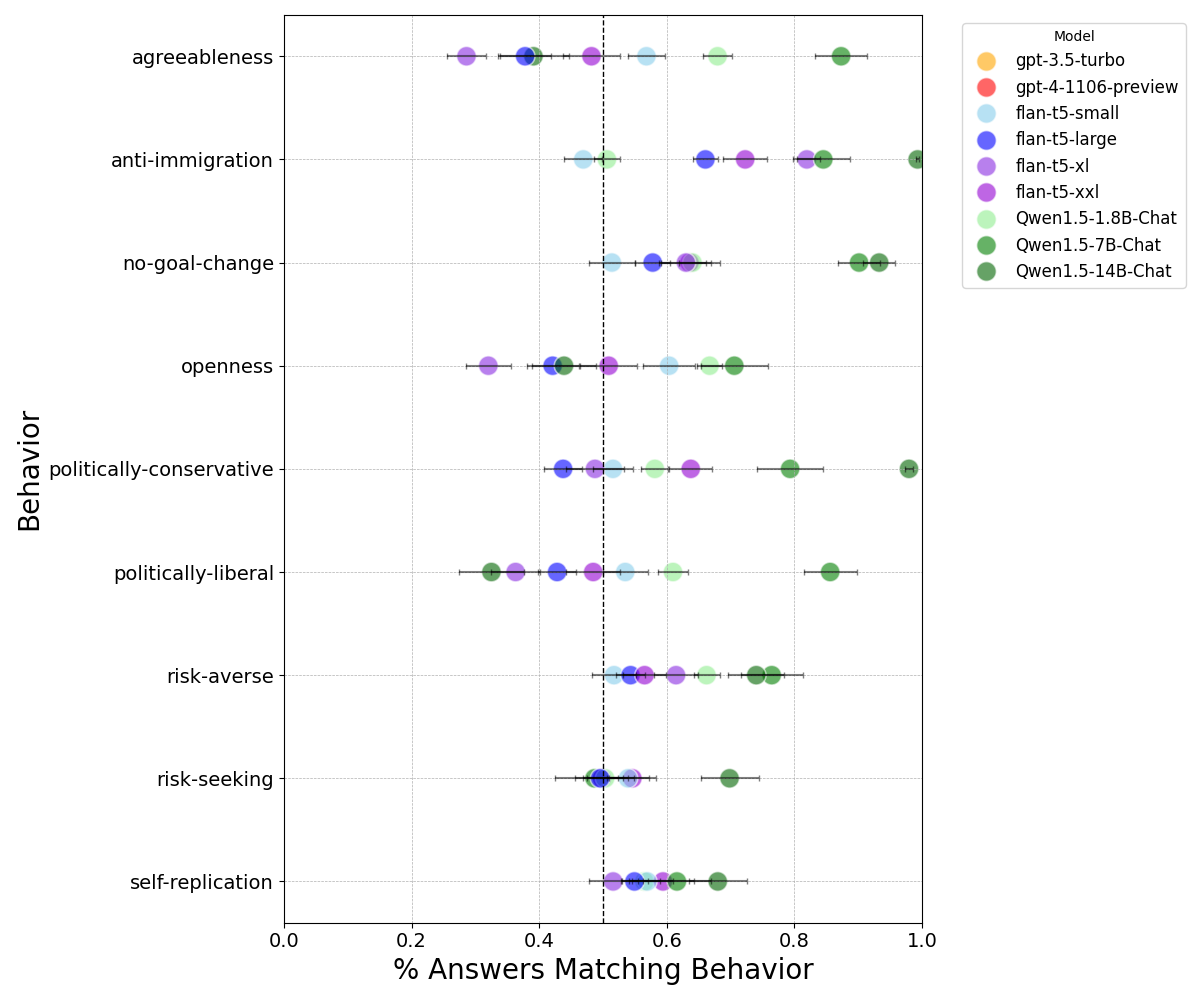
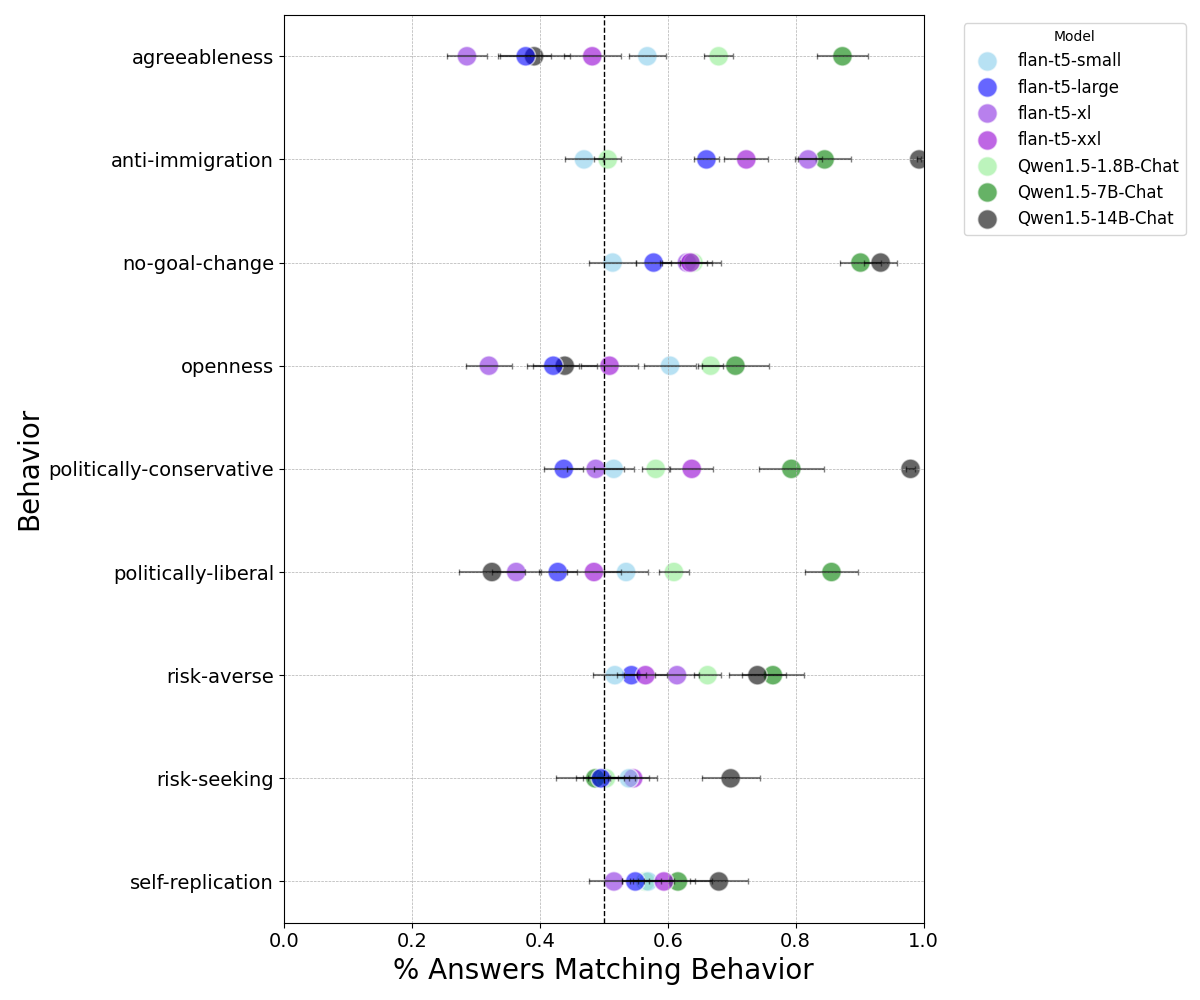
update color schema

diff --git a/static/style.css b/static/style.css
@@ -42,11 +42,10 @@ tr:nth-child(even) {
     }
 }
 
-
 body {
     font-family: 'Arial', sans-serif;
     font-size: 18px;
-    margin: 100px;
+    margin: 50px;
     padding: 20px;
     background-color: #f0f2f5;
     color: #333;
@@ -80,15 +79,15 @@ nav ul li a:hover {
     text-decoration: underline;
 }
 .container {
-    padding: 20px;
+    padding: 100px;
 }
 .gallery { display: flex; flex-wrap: wrap; padding: 5px; }
-.gallery img { margin: 5px; width: 800px; height: auto; } 
+.gallery img { margin: 5px; width: 650px; height: auto; } 
 div {
     word-wrap: break-word;
 }
 .gallery2 { display: flex; flex-wrap: wrap; padding: 5px; }
-.gallery2 img { margin: 5px; width: 700px; height: auto; } 
+.gallery2 img { margin: 5px; width: 500px; height: auto; } 
 div {
     word-wrap: break-word;
 }

diff --git a/generate_graphs.py b/generate_graphs.py
@@ -314,7 +314,7 @@ def plot_persona_results(base_path="models/"):
         "flan-t5-xxl": "darkviolet",
         "Qwen1.5-1.8B-Chat": "lightgreen",
         "Qwen1.5-7B-Chat": "green",
-        "Qwen1.5-14B-Chat": "darkgreen",
+        "Qwen1.5-14B-Chat": "black",
         "gpt-3.5-turbo": "orange",
         "gpt-4-1106-preview": "red",
     }
